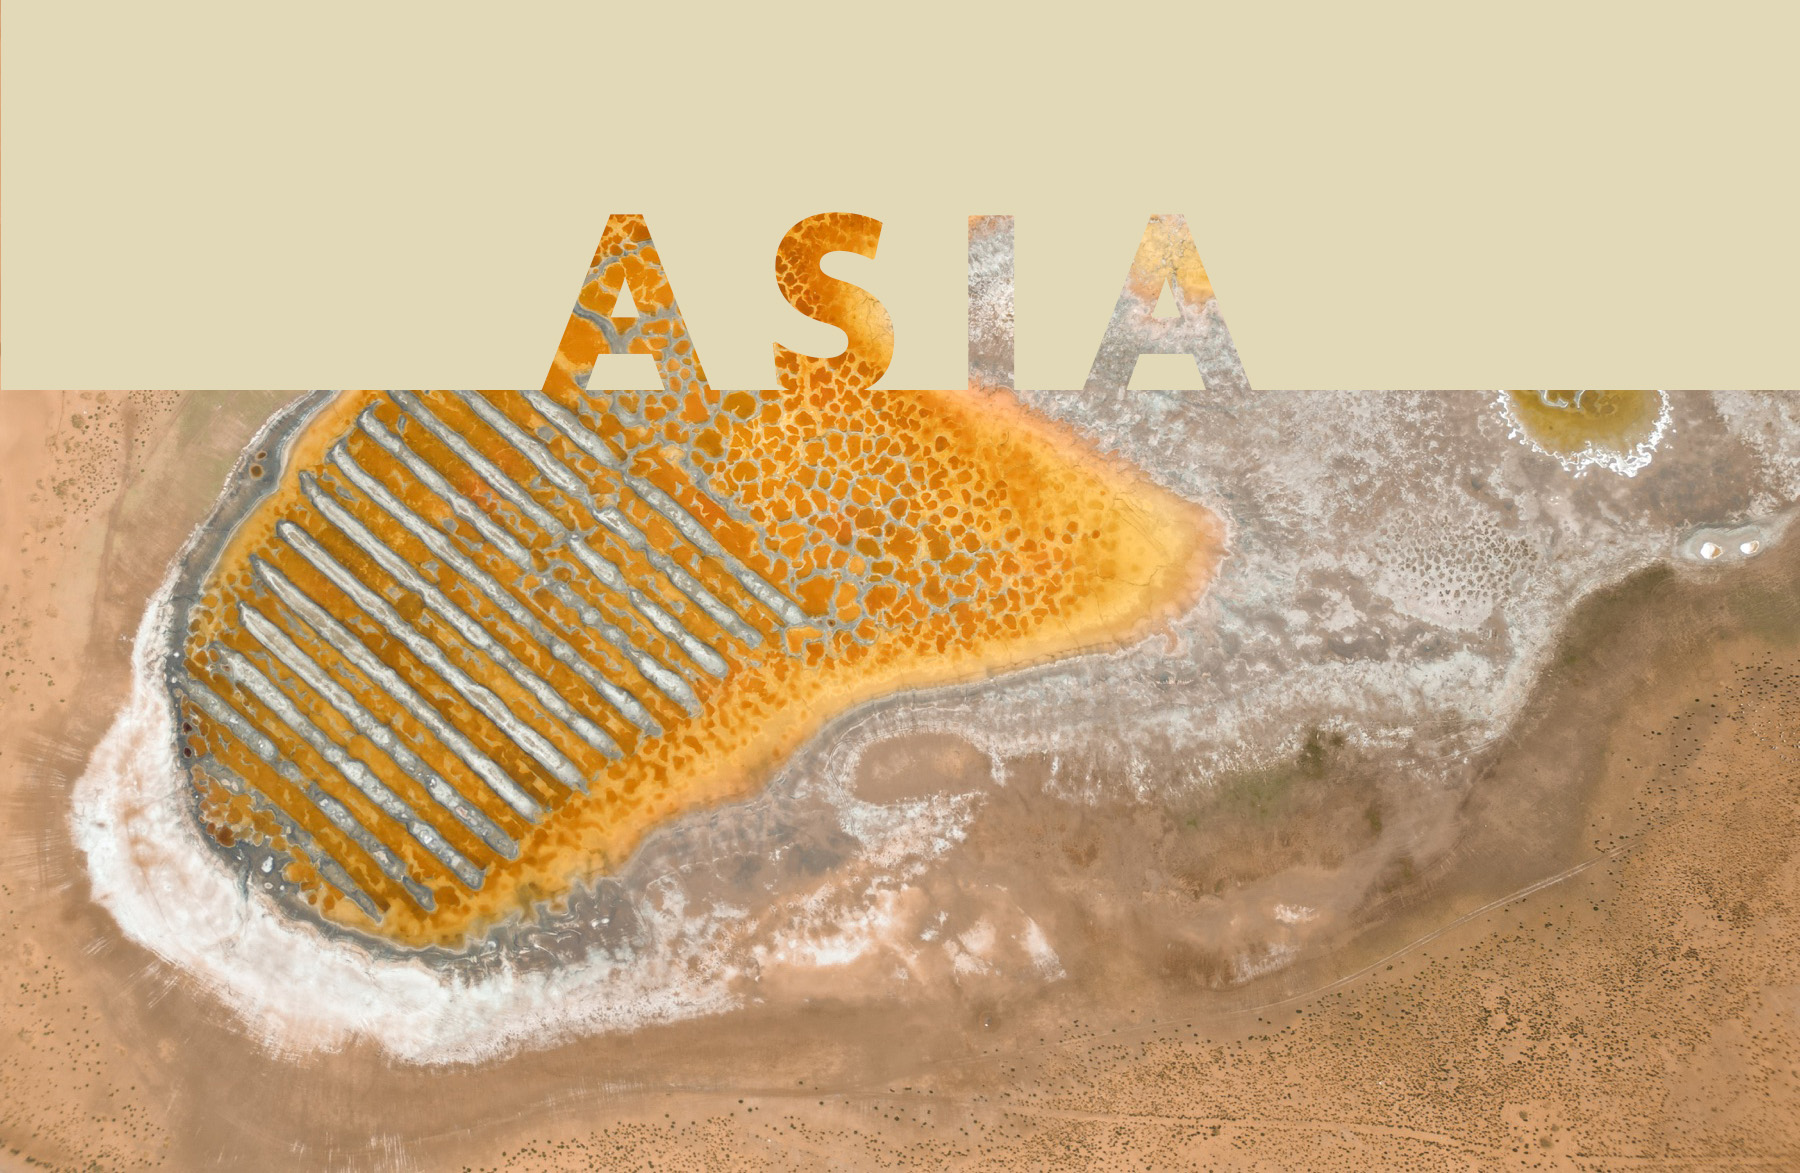
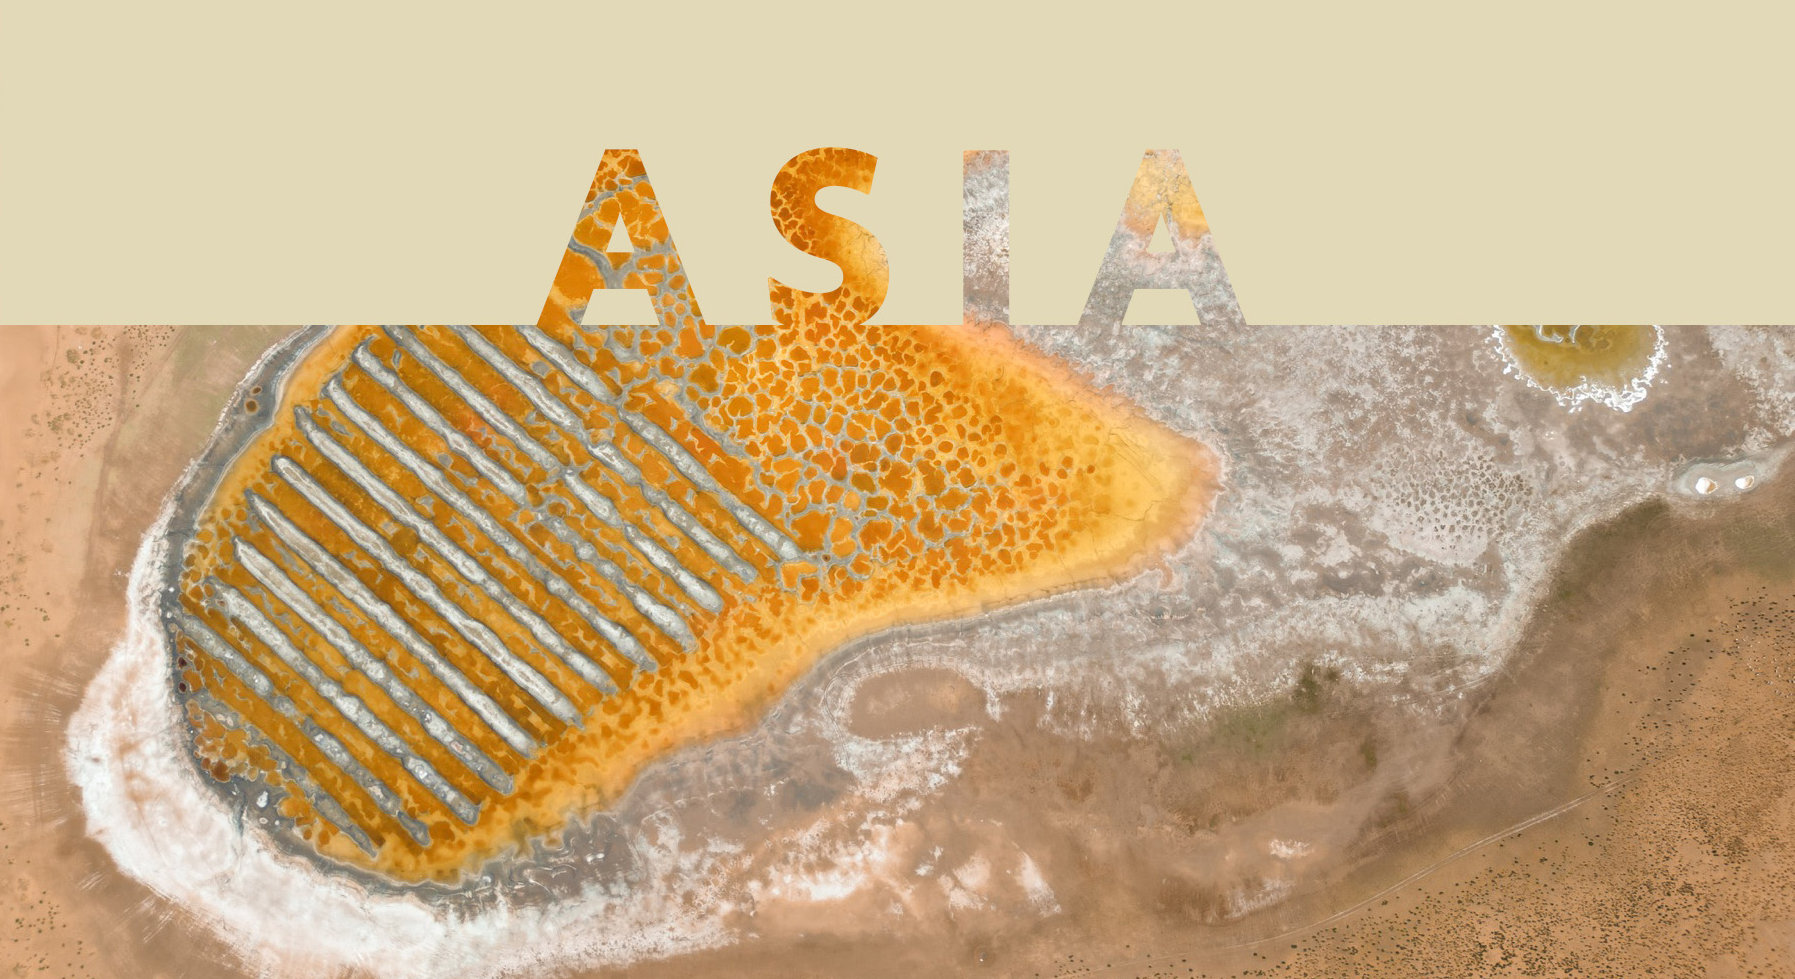
Center mobile gallery region cards

diff --git a/gallery.html b/gallery.html
@@ -40,7 +40,7 @@
 
   <main>
     <section class="gallery-category-grid">
-      <a class="region-card region-card-uploaded medium" href="gallery-asia.html" style="--card-bg: #c8b99d; --card-img: url('photos/Gallery Region Pic/asia.jpg'); --card-ratio: 1800 / 1173;">
+      <a class="region-card region-card-uploaded medium" href="gallery-asia.html" style="--card-bg: #c8b99d; --card-img: url('photos/Gallery Region Pic/asia.jpg'); --card-ratio: 1795 / 979;">
         <div class="region-top">
           <span class="explore-label">EXPLORE</span>
         </div>
@@ -48,7 +48,7 @@
         <p class="region-subtitle">MOUNTAINS, LAKES &amp; DESERTS</p>
       </a>
 
-      <a class="region-card region-card-uploaded medium" href="gallery-southafrica.html" style="--card-bg: #b98565; --card-img: url('photos/Gallery Region Pic/africa.jpg'); --card-ratio: 1800 / 1223;">
+      <a class="region-card region-card-uploaded medium" href="gallery-southafrica.html" style="--card-bg: #b98565; --card-img: url('photos/Gallery Region Pic/africa.jpg'); --card-ratio: 1795 / 979;">
         <div class="region-top">
           <span class="explore-label">EXPLORE</span>
         </div>
@@ -56,7 +56,7 @@
         <p class="region-subtitle">WILDLIFE &amp; DESERTS</p>
       </a>
 
-      <a class="region-card region-card-uploaded small" href="gallery-europe.html" style="--card-bg: #b9c4c0; --card-img: url('photos/Gallery Region Pic/europe.jpg'); --card-ratio: 1800 / 1209;">
+      <a class="region-card region-card-uploaded small" href="gallery-europe.html" style="--card-bg: #b9c4c0; --card-img: url('photos/Gallery Region Pic/europe.jpg'); --card-ratio: 1795 / 979;">
         <div class="region-top">
           <span class="explore-label">EXPLORE</span>
         </div>
@@ -64,7 +64,7 @@
         <p class="region-subtitle">ALPS, COASTLINES &amp; CITIES</p>
       </a>
 
-      <a class="region-card region-card-uploaded wide" href="gallery-northamerica.html" style="--card-bg: #c9a782; --card-img: url('photos/Gallery Region Pic/north america.jpg'); --card-ratio: 1800 / 1180;">
+      <a class="region-card region-card-uploaded wide" href="gallery-northamerica.html" style="--card-bg: #c9a782; --card-img: url('photos/Gallery Region Pic/north america.jpg'); --card-ratio: 1795 / 979;">
         <div class="region-top">
           <span class="explore-label">EXPLORE</span>
         </div>
@@ -72,7 +72,7 @@
         <p class="region-subtitle">MOUNTAIN VALLEYS, CANYONS &amp; DESERTS</p>
       </a>
 
-      <a class="region-card region-card-uploaded full" href="gallery-astrophotography.html" style="--card-bg: #6f7d93; --card-img: url('photos/Gallery Region Pic/astro.jpg'); --card-ratio: 1800 / 640;">
+      <a class="region-card region-card-uploaded full" href="gallery-astrophotography.html" style="--card-bg: #6f7d93; --card-img: url('photos/Gallery Region Pic/astro.jpg'); --card-ratio: 1798 / 567;">
         <div class="region-top">
           <span class="explore-label">EXPLORE</span>
         </div>

diff --git a/css/style.css b/css/style.css
@@ -1592,6 +1592,7 @@ footer a:hover {
 @media (max-width: 768px) {
   .gallery-category-grid {
     grid-template-columns: 1fr;
+    justify-items: center;
   }
 
   .gallery-category-grid .region-card,
@@ -1610,6 +1611,11 @@ footer a:hover {
 
   .gallery-category-grid .region-card-uploaded.full {
     min-height: 150px;
+  }
+
+  .gallery-category-grid .region-card-uploaded {
+    justify-self: center;
+    width: min(100%, 560px);
   }
 
   .gallery-category-grid .explore-label {
